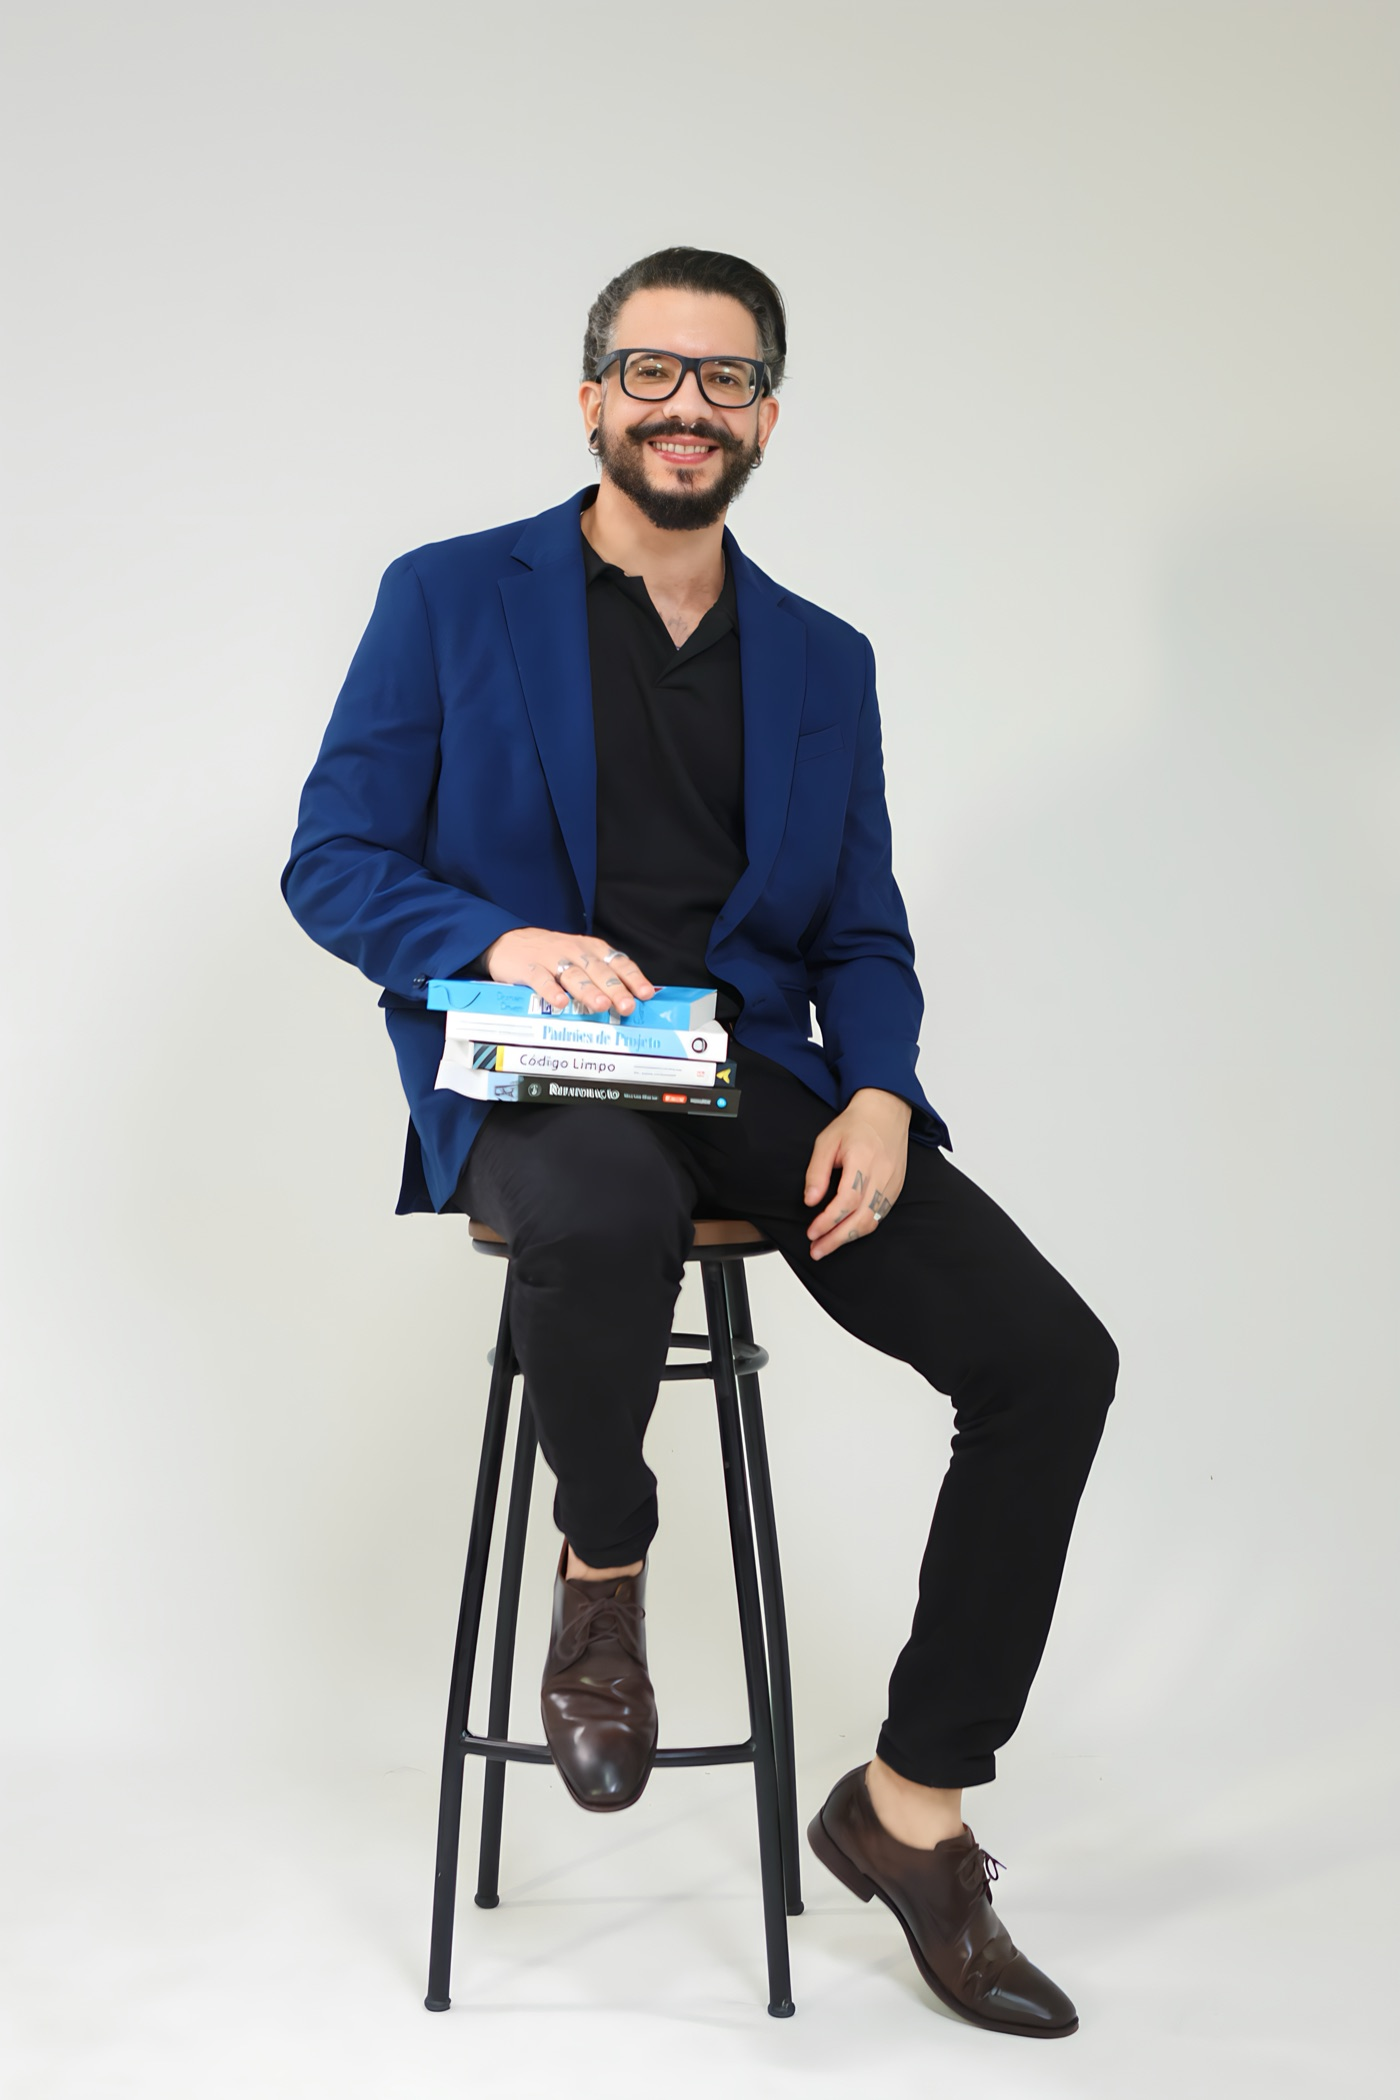
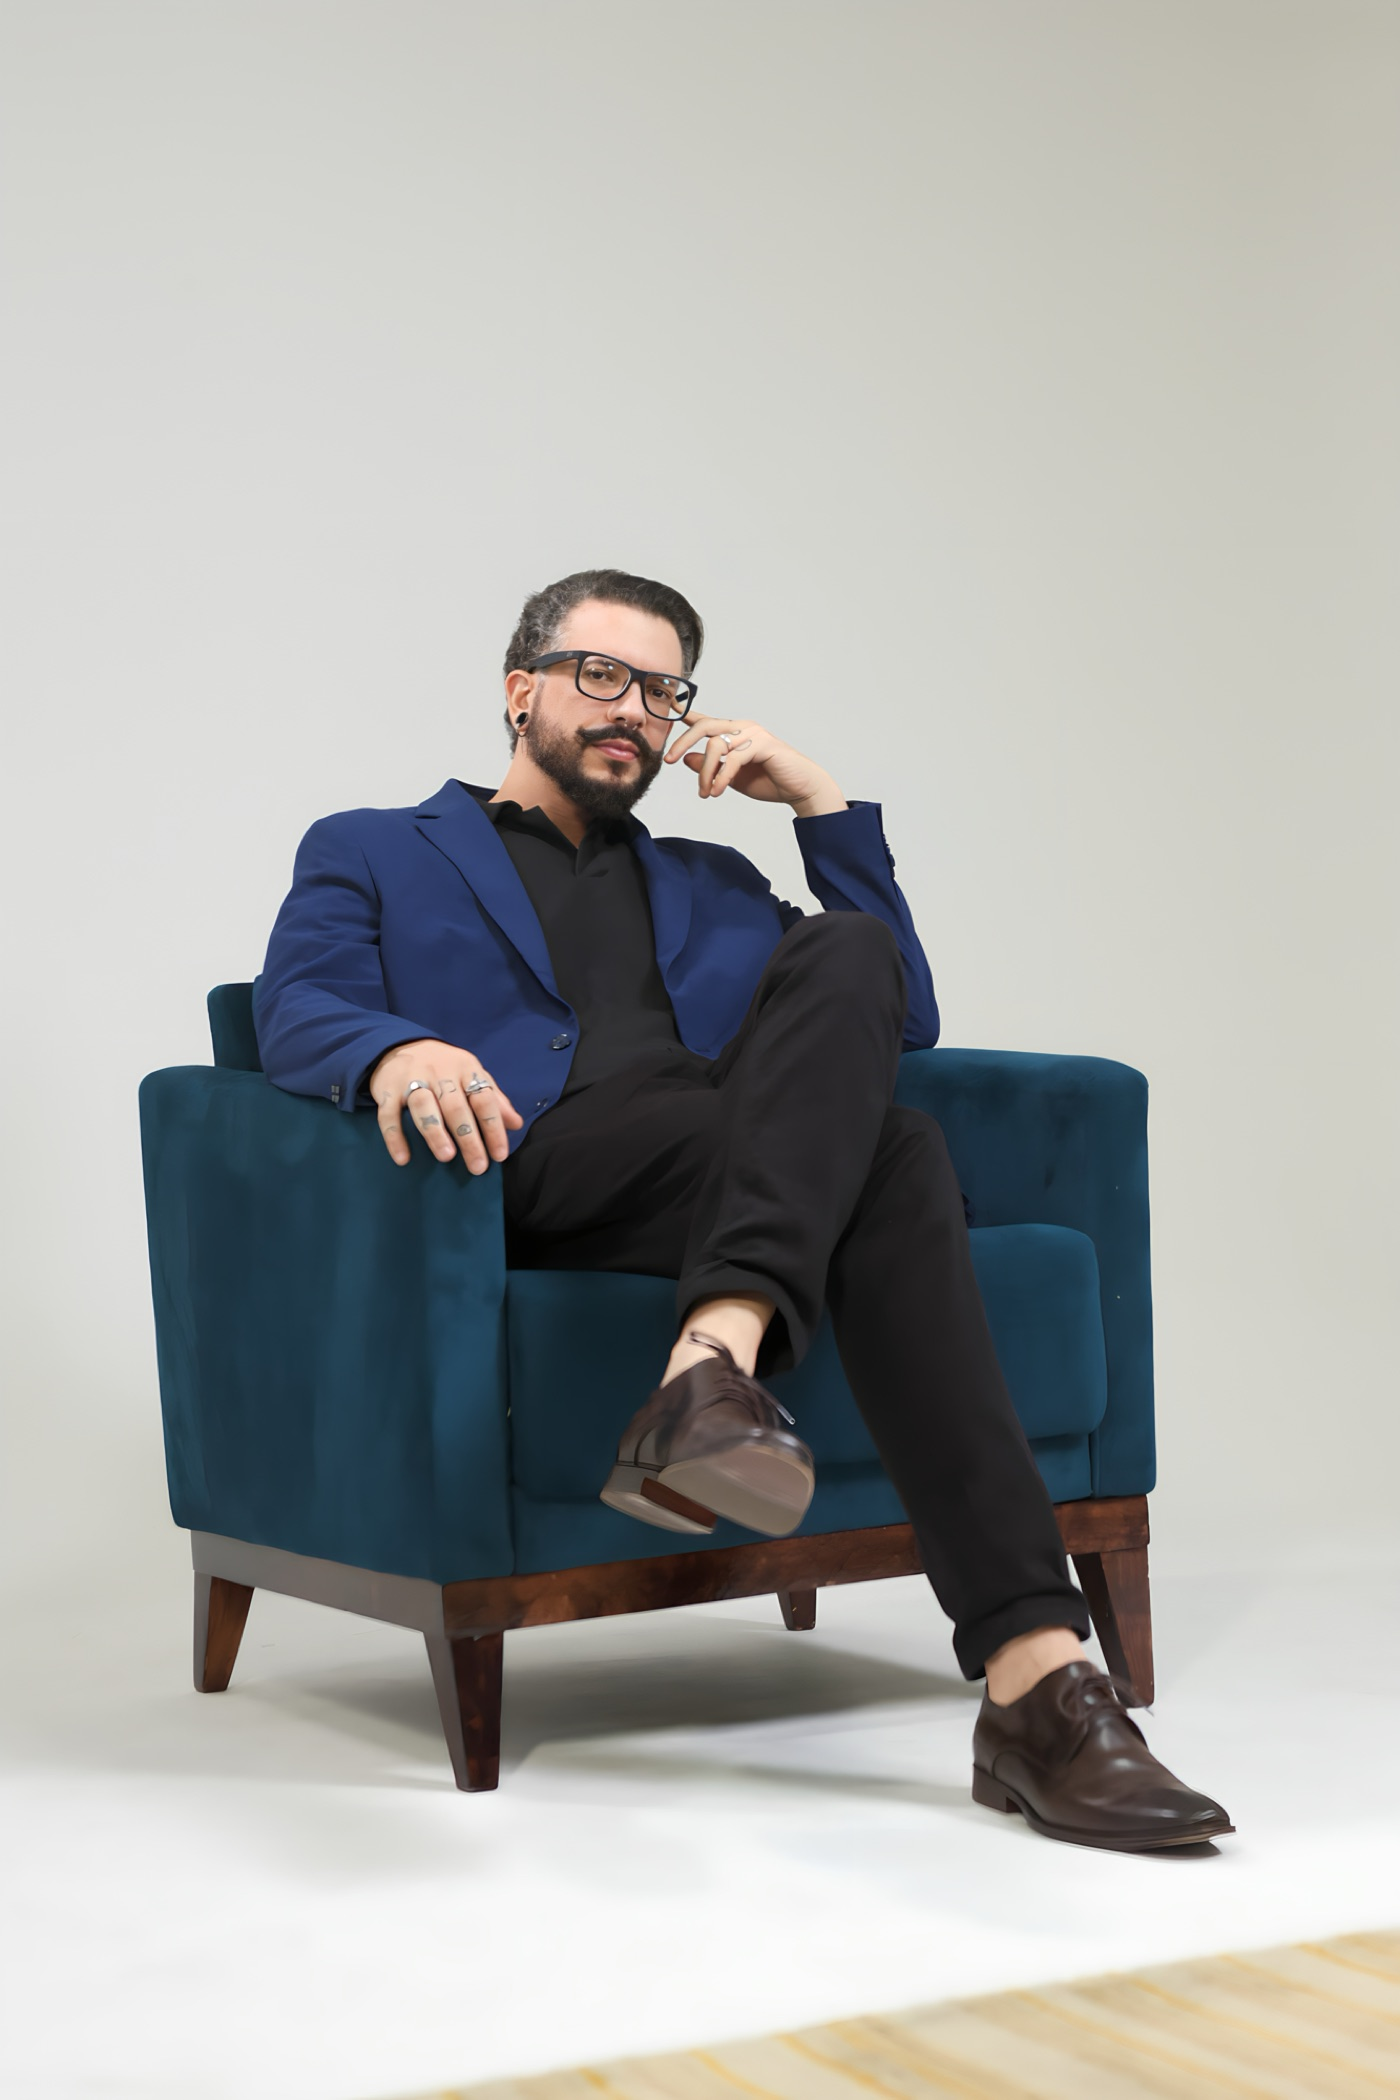
Troca foto do perfil do mentor por nova pose (poltrona, mao no queixo)

diff --git a/index.html b/index.html
@@ -105,7 +105,7 @@ nav .aplicar:hover{background:var(--coral-h)}
 @media(max-width:860px){.mentor{grid-template-columns:1fr}}
 .mentor + .mentor{margin-top:72px}
 .mentor .foto{border:1px solid var(--border);border-radius:4px;overflow:hidden;position:relative;aspect-ratio:1/1}
-.mentor .foto img{width:100%;height:100%;object-fit:cover;object-position:center 18%}
+.mentor .foto img{width:100%;height:100%;object-fit:cover;object-position:center 20%}
 .mentor .foto .tag{position:absolute;left:12px;bottom:10px;font-family:'IBM Plex Mono',monospace;font-size:10.5px;letter-spacing:.08em;color:var(--ink);text-transform:uppercase}
 .mentor .foto .tag .dot{color:var(--coral)}
 .mentor h3{font-family:'Raleway',sans-serif;font-weight:800;font-size:30px;margin:6px 0 18px}